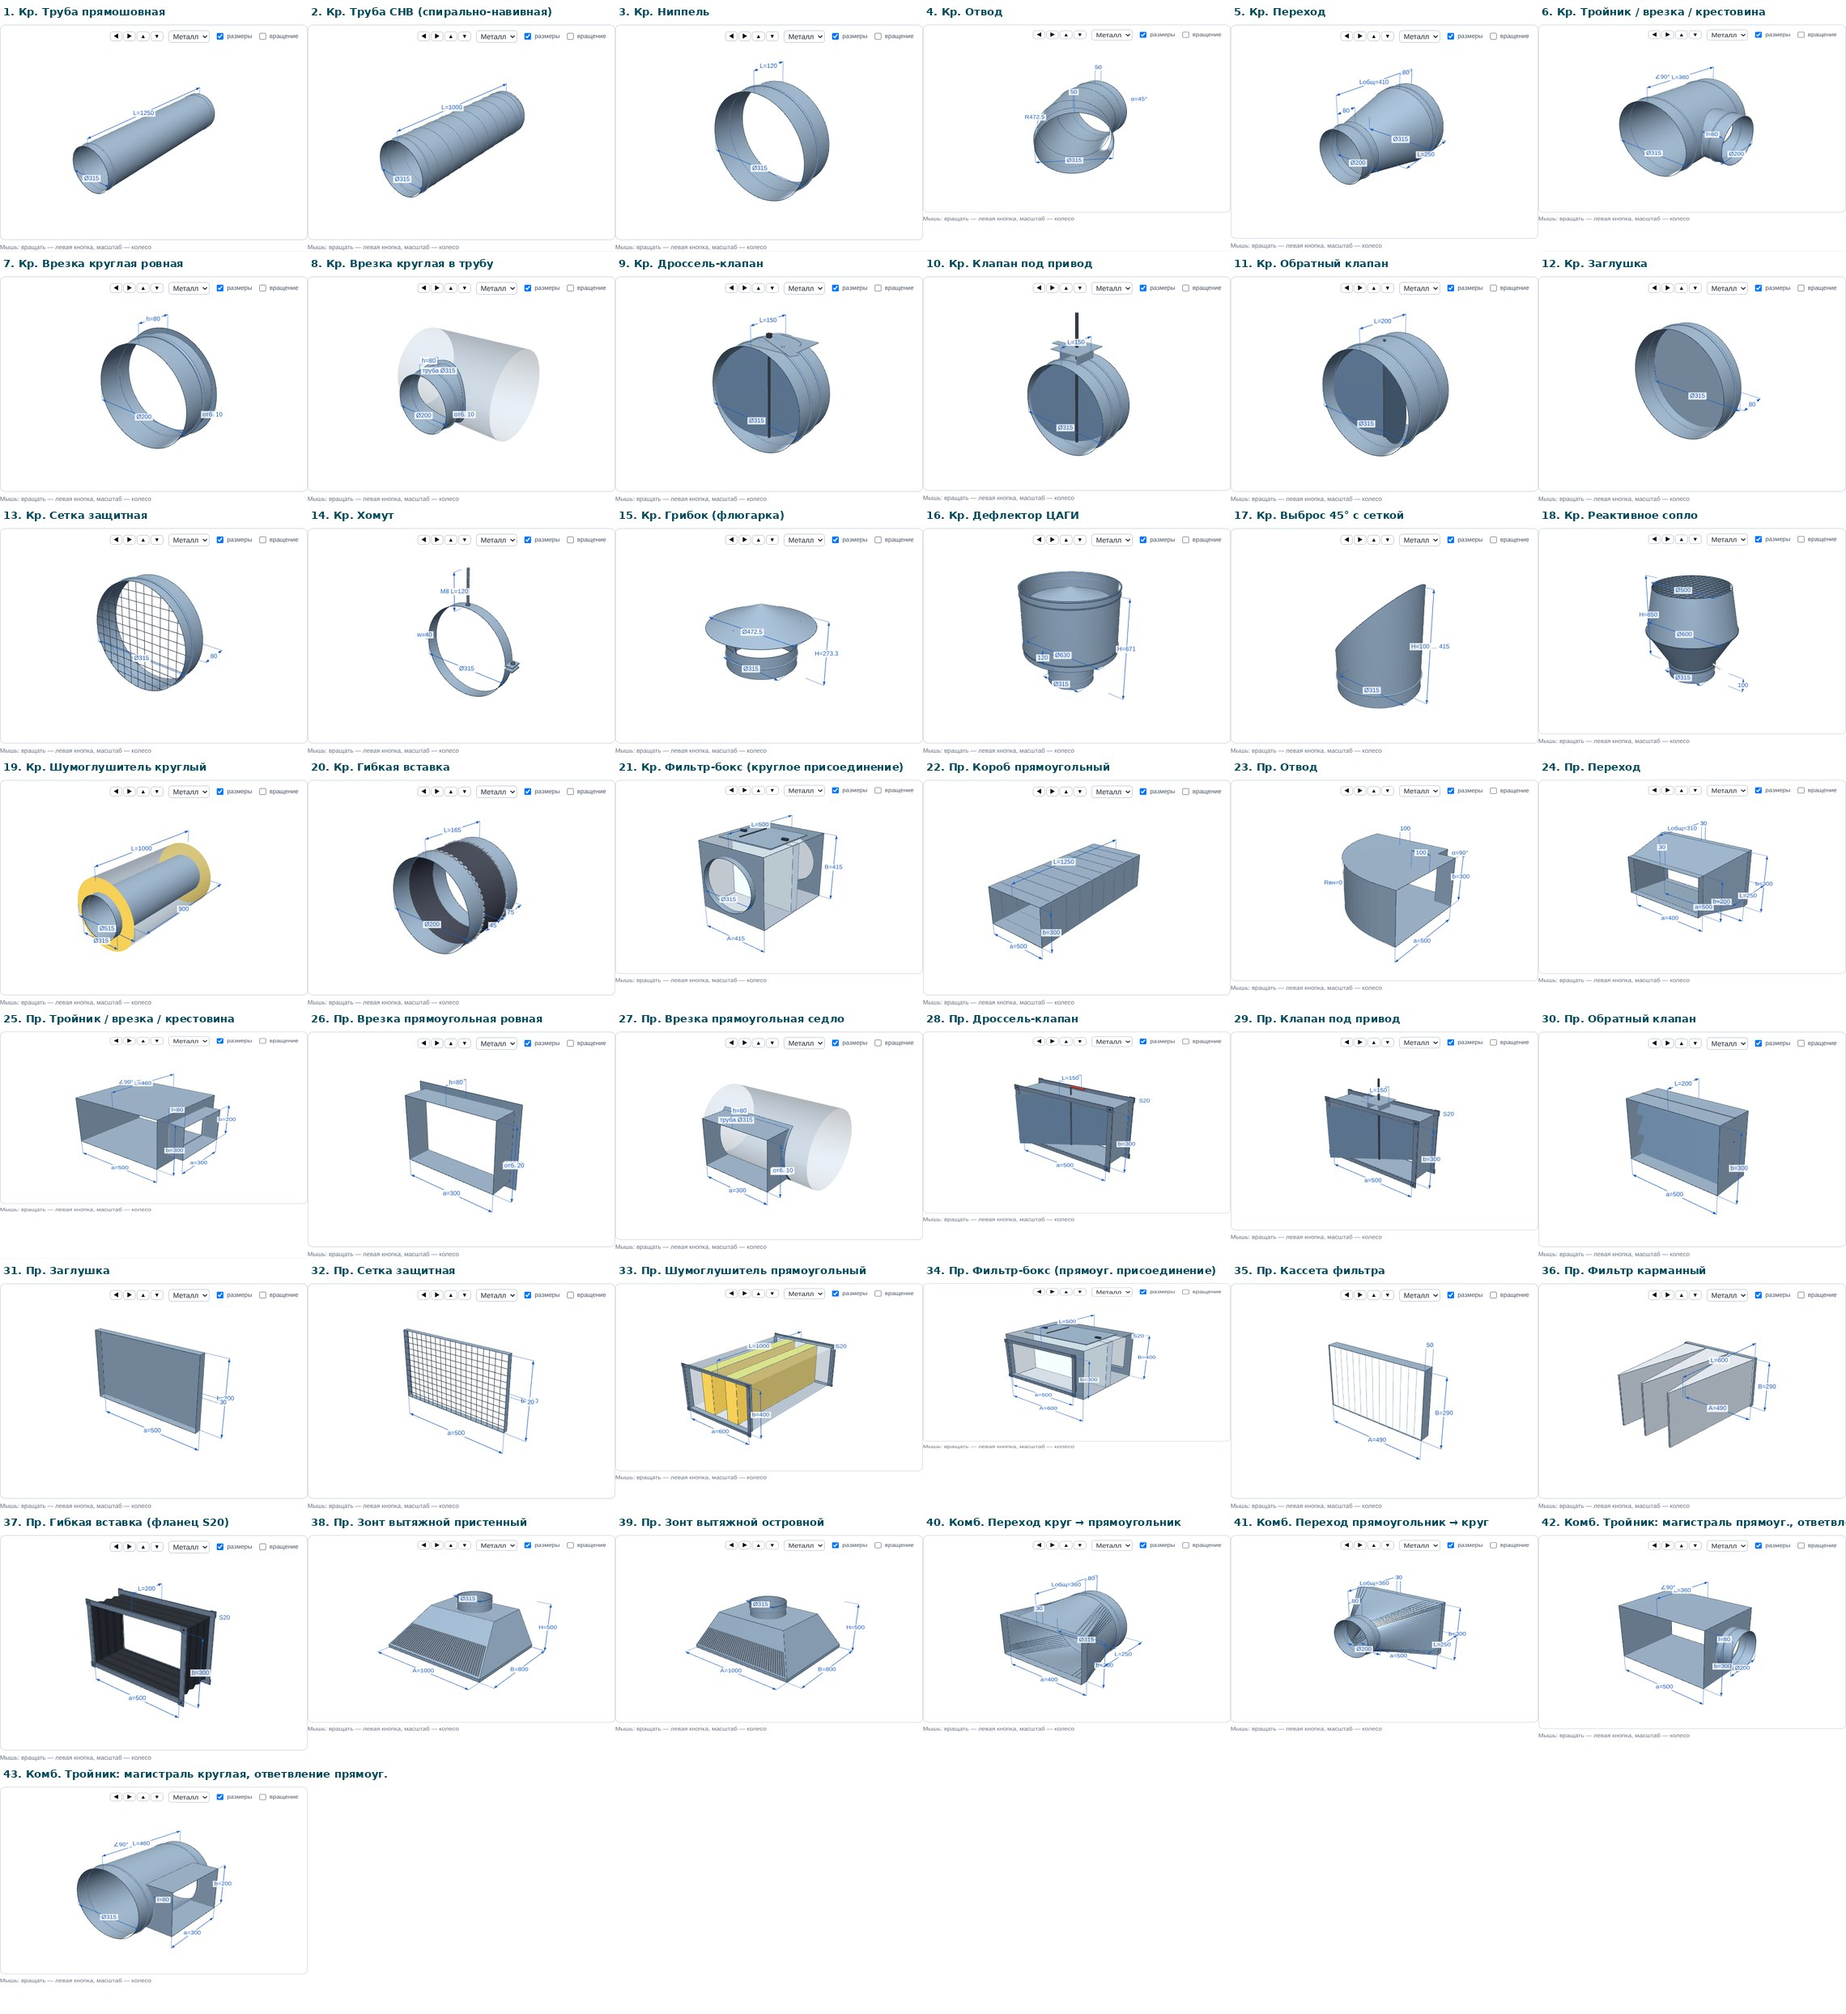
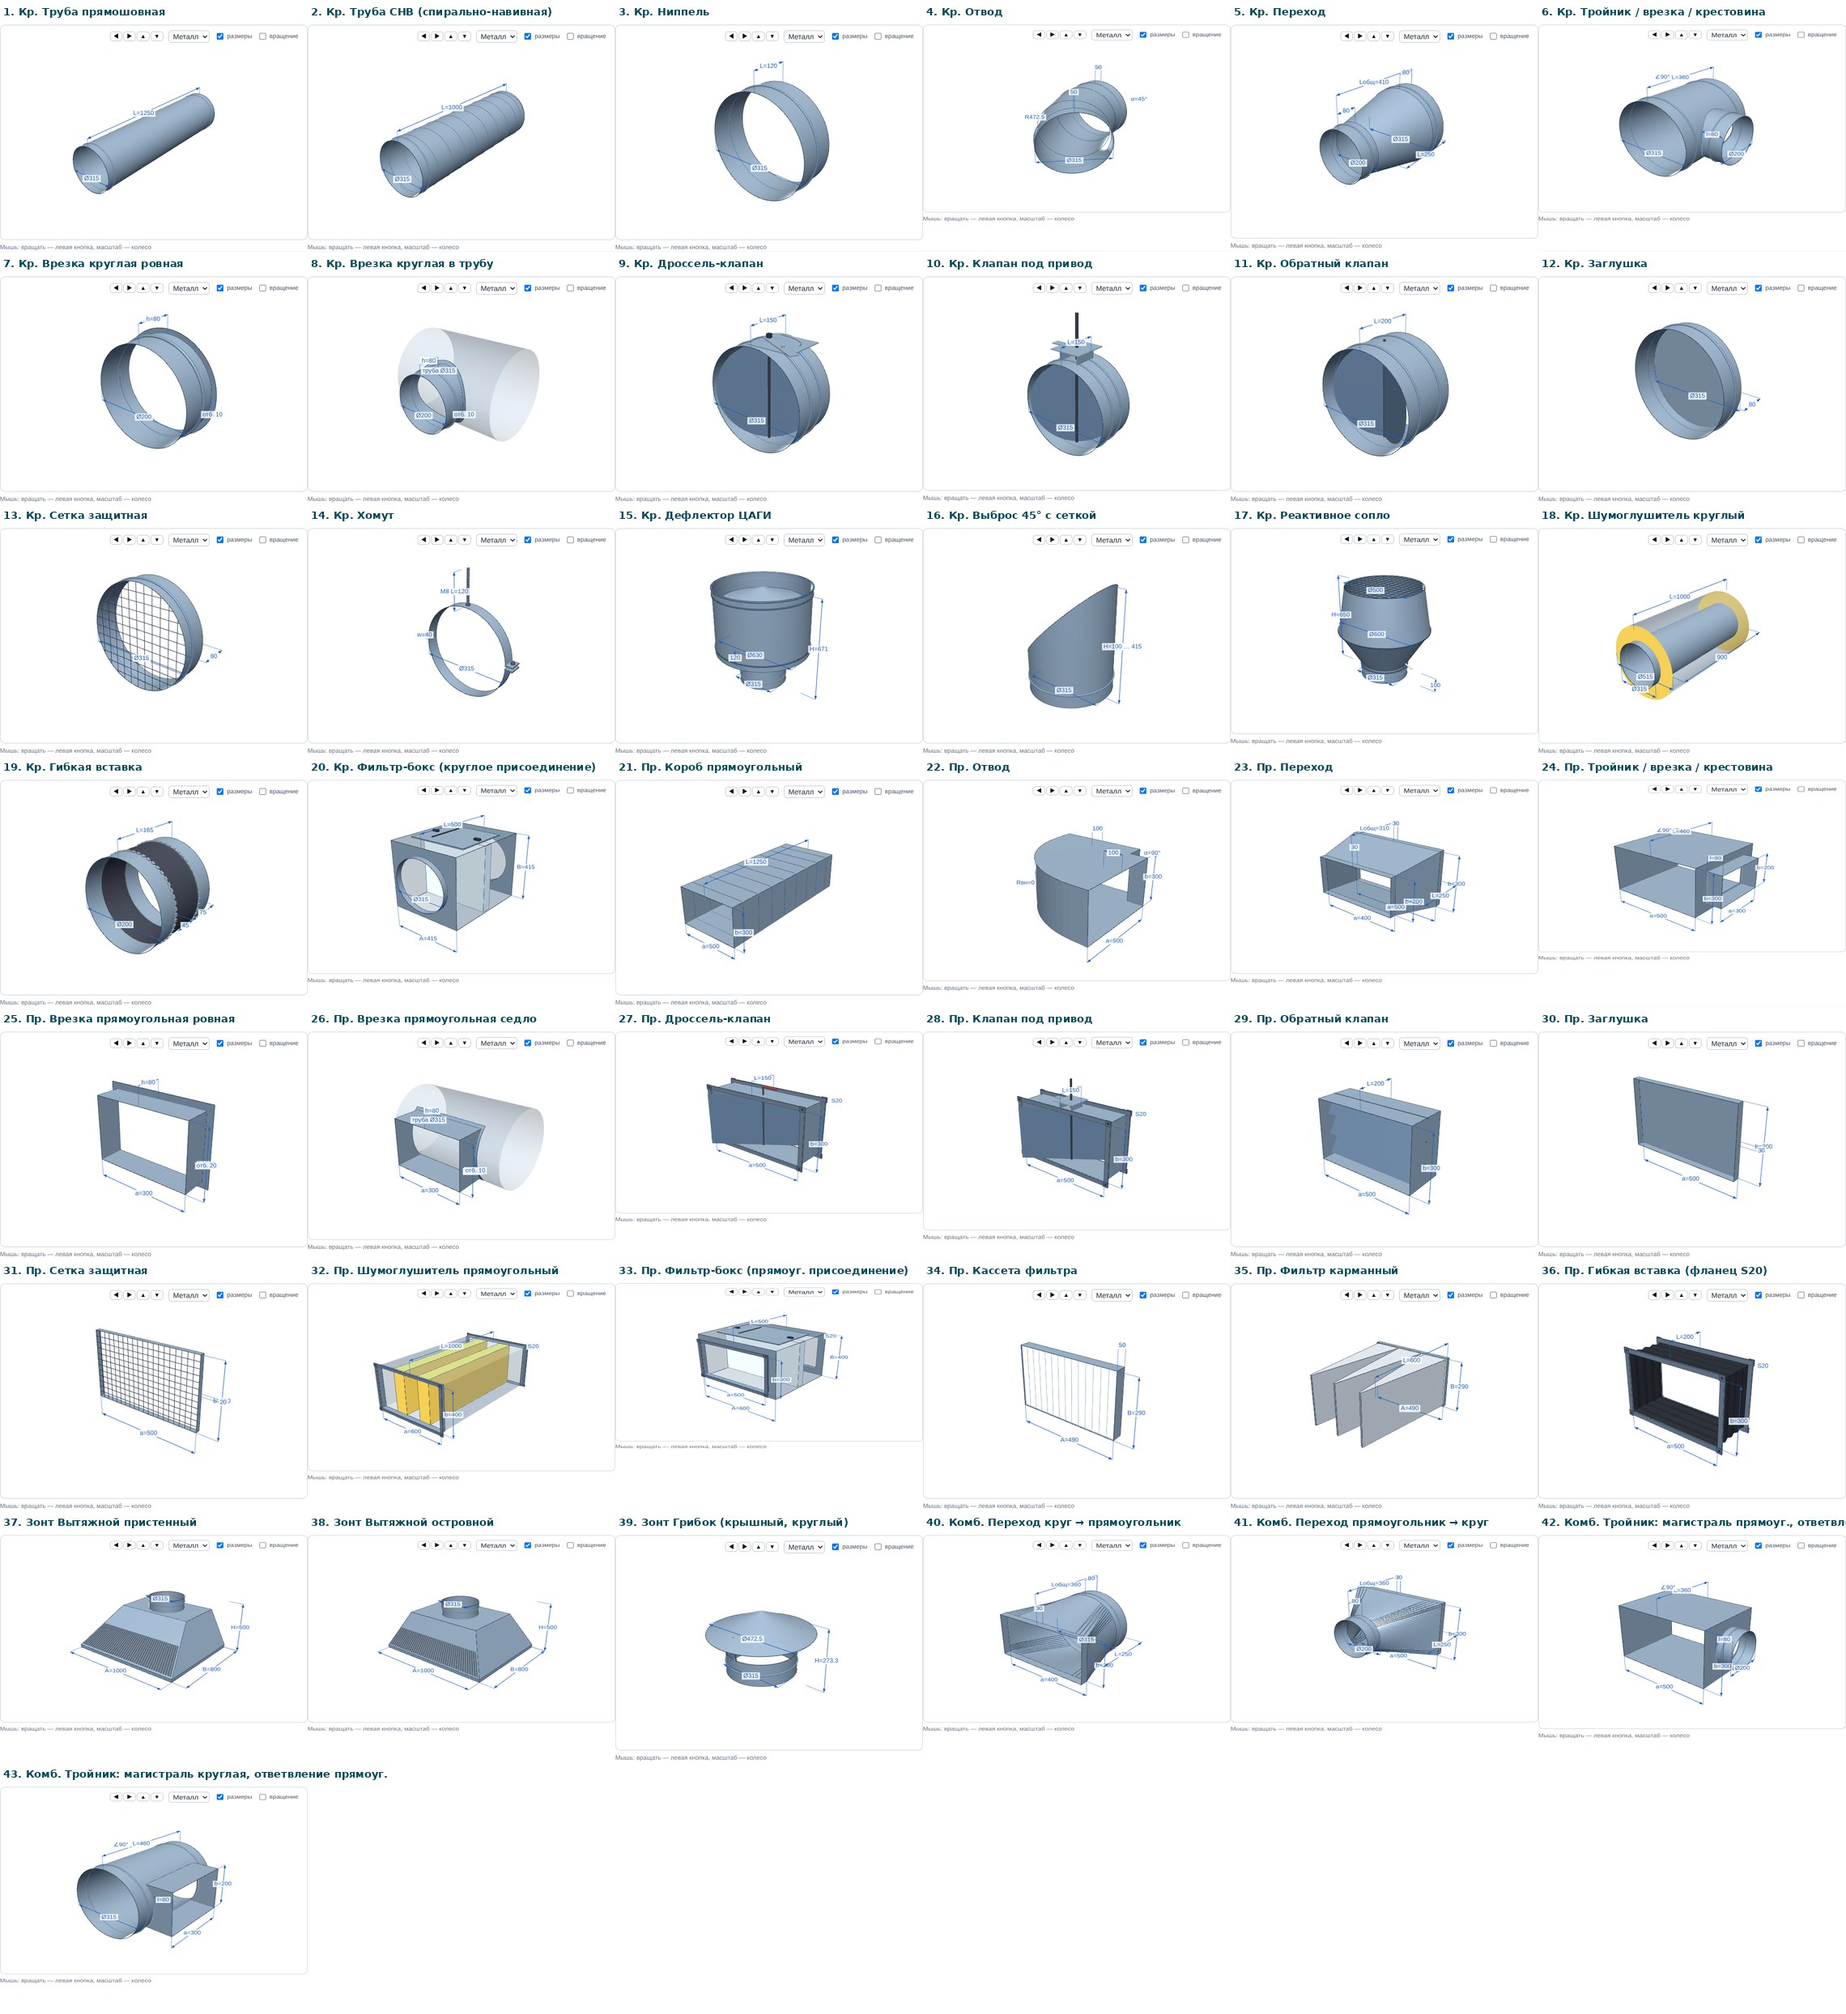
Отдельная папка «Зонты»: вытяжные пристенный и островной, грибок
Claude-Session: https://claude.ai/code/session_01VZQ95g7KkArQtxt1wvSdji

diff --git a/js/app.js b/js/app.js
@@ -148,10 +148,11 @@ let timer;
 const GROUPS = [
   { title: 'Круглое сечение', items: [['pipe'], ['snv'], ['nipple'], ['elbow', { shape: 'round', ang: 45 }, 'Отвод'], ['transition', { s1: 'round', s2: 'round', L: 250 }, 'Переход'],
     ['tee', { s1: 'round', s2: 'round' }, 'Тройник / врезка / крестовина'], ['tap', { shape: 'round', end: 'flat' }, 'Врезка круглая ровная'], ['tap', { shape: 'round', end: 'saddle' }, 'Врезка круглая в трубу'], ['throttle', { shape: 'round' }, 'Дроссель-клапан'], ['throttle', { shape: 'round', drive: 'act' }, 'Клапан под привод'], ['checkv', { shape: 'round' }], ['cap', { shape: 'round', h: 80 }], ['mesh', { shape: 'round', fw: 80 }],
-    ['clamp'], ['mushroom'], ['tsagi'], ['exhaust45'], ['nozzle'], ['silround'], ['flex', { shape: 'round', fg: 'none', L: 75, D: 200 }, 'Гибкая вставка'], ['filterbox', { cs: 'round' }, 'Фильтр-бокс (круглое присоединение)']] },
+    ['clamp'], ['tsagi'], ['exhaust45'], ['nozzle'], ['silround'], ['flex', { shape: 'round', fg: 'none', L: 75, D: 200 }, 'Гибкая вставка'], ['filterbox', { cs: 'round' }, 'Фильтр-бокс (круглое присоединение)']] },
   { title: 'Прямоугольное сечение', items: [['box'], ['elbow', { shape: 'rect', ends: 100, ang: 90, ri: 0 }, 'Отвод'], ['transition', { s1: 'rect', s2: 'rect', L: 250 }, 'Переход'],
     ['tee', { s1: 'rect', s2: 'rect' }, 'Тройник / врезка / крестовина'], ['tap', { shape: 'rect', end: 'flat', ob: 20 }, 'Врезка прямоугольная ровная'], ['tap', { shape: 'rect', end: 'saddle' }, 'Врезка прямоугольная седло'], ['throttle', { shape: 'rect', fg: 'S20' }, 'Дроссель-клапан'], ['throttle', { shape: 'rect', fg: 'S20', drive: 'act' }, 'Клапан под привод'], ['checkv', { shape: 'rect' }], ['cap', { shape: 'rect' }], ['mesh', { shape: 'rect' }],
-    ['silrect', { fg: 'S20' }, 'Шумоглушитель прямоугольный'], ['filterbox', { cs: 'rect', fg: 'S20' }, 'Фильтр-бокс (прямоуг. присоединение)'], ['cassette'], ['pocketf'], ['flex', { shape: 'rect' }, 'Гибкая вставка (фланец S20)'], ['hood', { kind: 'wall' }, 'Зонт вытяжной пристенный'], ['hood', { kind: 'island' }, 'Зонт вытяжной островной']] },
+    ['silrect', { fg: 'S20' }, 'Шумоглушитель прямоугольный'], ['filterbox', { cs: 'rect', fg: 'S20' }, 'Фильтр-бокс (прямоуг. присоединение)'], ['cassette'], ['pocketf'], ['flex', { shape: 'rect' }, 'Гибкая вставка (фланец S20)']] },
+  { title: 'Зонты', items: [['hood', { kind: 'wall' }, 'Вытяжной пристенный'], ['hood', { kind: 'island' }, 'Вытяжной островной'], ['mushroom', {}, 'Грибок (крышный, круглый)']] },
   { title: 'Комбинированные: круг и прямоугольник', items: [['transition', { s1: 'round', s2: 'rect', L: 250 }, 'Переход круг → прямоугольник'],
     ['transition', { s1: 'rect', s2: 'round', L: 250 }, 'Переход прямоугольник → круг'], ['tee', { s1: 'rect', s2: 'round' }, 'Тройник: магистраль прямоуг., ответвление круглое'],
     ['tee', { s1: 'round', s2: 'rect' }, 'Тройник: магистраль круглая, ответвление прямоуг.']] },
